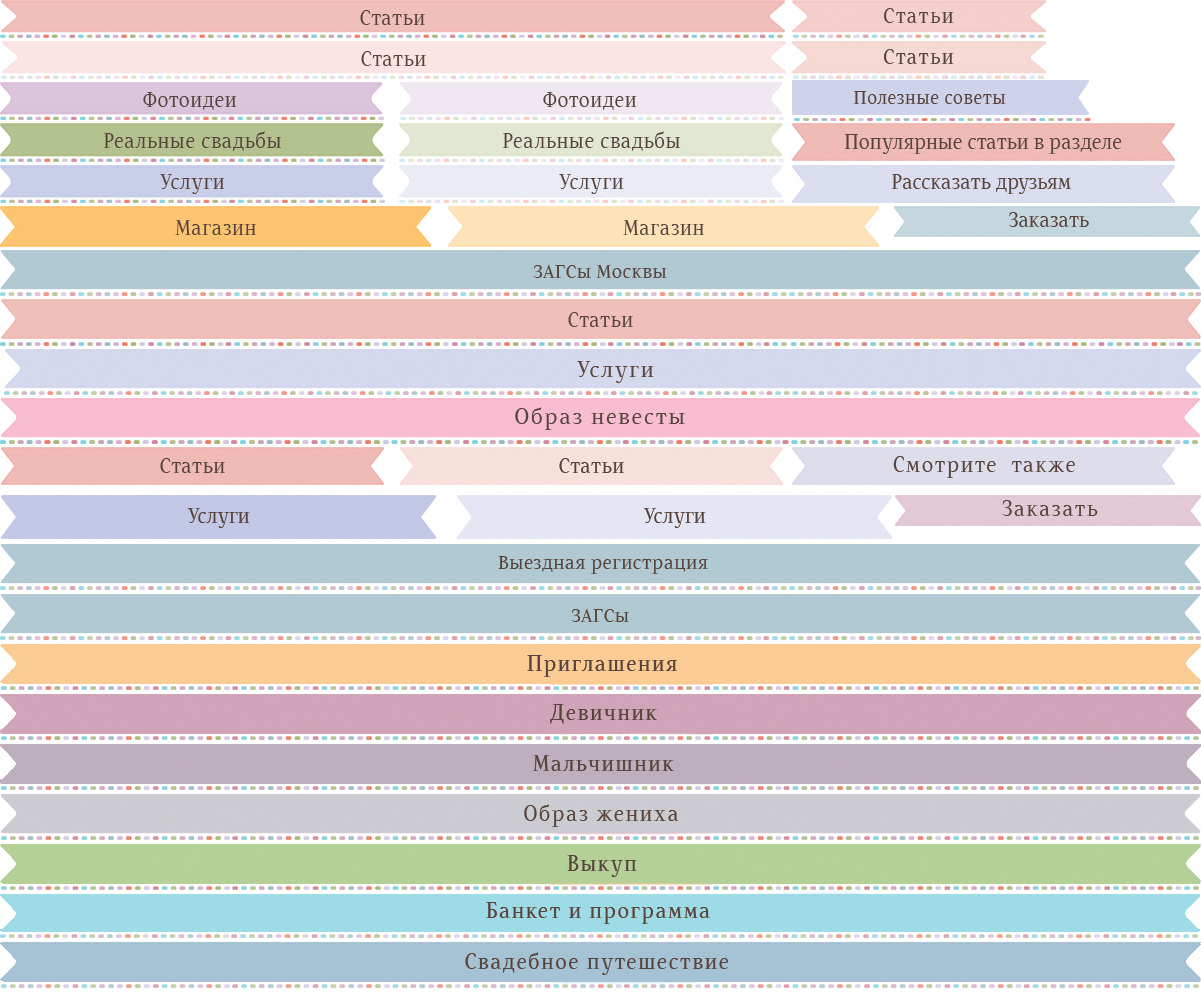
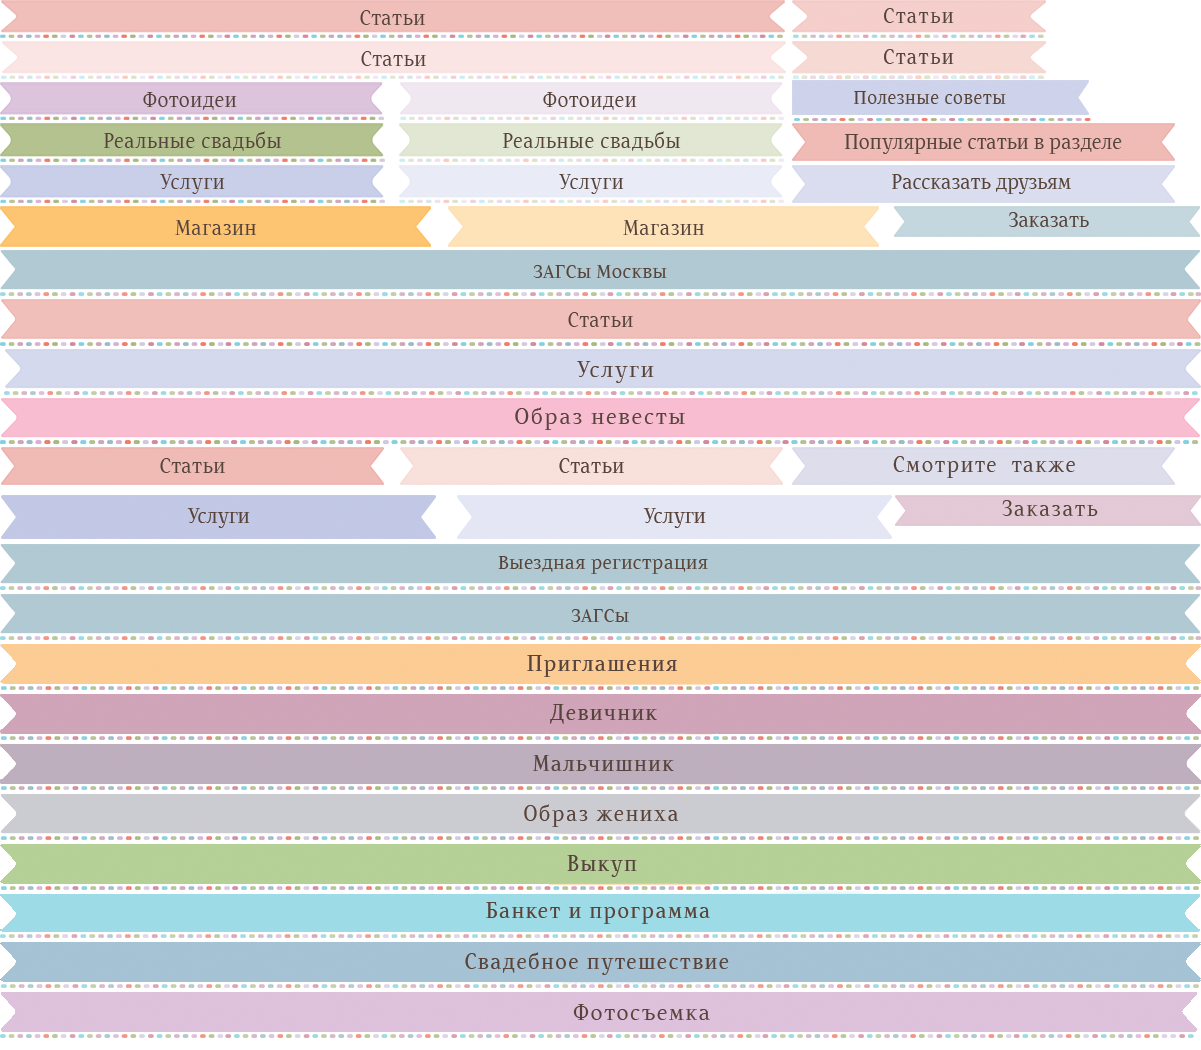
+ photographer-personal.html page (content)

diff --git a/photographer-personal.html b/photographer-personal.html
@@ -95,7 +95,10 @@
         </header>
         <main id="main">
             <div class="container">
-                <strong class="title title-services-wide"><span>Услуги</span></strong>
+                <strong class="title title-photo-wide"><span>Фотосъемка</span></strong>
+                <div class="align-center">
+                    <a class="button button-tour" href="#"><i></i>Вернуться к поиску</a>
+                </div>
                 <div class="content">
                     <div class="content-holder">
                         <article class="page-content">
@@ -126,7 +129,91 @@
                                 </div>
                             </div>
                             <div class="center-column">
-                                <h1>Илья Петров</h1>
+                                <div class="title-holder violet">
+                                    <h1>Илья Петров</h1>
+                                    <div class="rating-row">
+                                        <span class="label">Фотограф</span>
+                                        <span class="star-rating">
+                                            <img src="images/star-rating.png" alt="" width="107" height="12"/>
+                                        </span>
+                                    </div>
+                                </div>
+                                <div class="photographer-info">
+                                    <div class="entry-content">
+                                        <div class="photo">
+                                            <img src="images/img137.jpg" alt="" width="177" height="182"/>
+                                            <a class="add-to-favourite" title="Добавить в избранное" href="#">Добавить в избранное</a>
+                                        </div>
+                                        <div class="entry-text">
+                                            <p>Во всех отелях и аэропортах есть магазины duty free. Наилучшими покупками
+                                                будут кубинские сигары, ром, ликеры, изделия кубинского народного искусства,
+                                                поделки и ювелирные изделия из черного
+                                                коралла, панциря черепахи и раковин, а
+                                                также вышитые и плетенные изделия. Изделия кубинского</p>
+                                            <div class="align-right">
+                                                <a class="read-more" href="#">Читать подробнее</a>
+                                            </div>
+                                        </div>
+                                    </div>
+                                    <div class="price-block">
+                                        <strong class="caption">Цена</strong>
+                                        <div class="entry">
+                                            <p>Фотосъемка свадьбы <span class="price">35 000 руб.</span></p>
+                                            <p>1 час <span class="price">3 500 руб.</span></p>
+                                        </div>
+                                    </div>
+                                </div>
+                                <div class="tabs-content">
+                                    <div class="tabs-menu">
+                                        <a href="#photo" class="active">Фото (53)</a>
+                                        <a href="#video">Видео (0)</a>
+                                        <a href="#price">Цены</a>
+                                        <a href="#comments">Отзывы (3)</a>
+                                    </div>
+                                    <div class="tab-content" id="photo">
+                                        <div class="imgs-row">
+                                            <div class="img-holder">
+                                                <img src="images/img138.jpg" alt="" width="289" height="213"/>
+                                                <a class="add-to-favourite" title="Добавить в избранное" href="#">&nbsp;</a>
+                                            </div>
+                                            <div class="img-holder">
+                                                <img src="images/img139.jpg" alt="" width="290" height="213"/>
+                                                <a class="add-to-favourite" title="Добавить в избранное" href="#">&nbsp;</a>
+                                            </div>
+                                        </div>
+                                        <div class="imgs-row">
+                                            <div class="img-holder">
+                                                <img src="images/img140.jpg" alt="" width="585" height="308"/>
+                                                <a class="add-to-favourite" title="Добавить в избранное" href="#">&nbsp;</a>
+                                            </div>
+                                        </div>
+                                        <div class="imgs-row">
+                                            <div class="img-holder">
+                                                <img src="images/img141.jpg" alt="" width="289" height="436"/>
+                                                <a class="add-to-favourite" title="Добавить в избранное" href="#">&nbsp;</a>
+                                            </div>
+                                            <div class="img-holder">
+                                                <img src="images/img142.jpg" alt="" width="290" height="436"/>
+                                                <a class="add-to-favourite" title="Добавить в избранное" href="#">&nbsp;</a>
+                                            </div>
+                                        </div>
+                                        <div class="imgs-row">
+                                            <div class="img-holder">
+                                                <img src="images/img143.jpg" alt="" width="585" height="351"/>
+                                                <a class="add-to-favourite" title="Добавить в избранное" href="#">&nbsp;</a>
+                                            </div>
+                                        </div>
+                                    </div>
+                                    <div class="tab-content" id="video">
+                                        Видео
+                                    </div>
+                                    <div class="tab-content" id="price">
+                                        Цены
+                                    </div>
+                                    <div class="tab-content" id="comments">
+                                        Отзывы
+                                    </div>
+                                </div>
                             </div>
                         </article>
                         <aside class="aside">

diff --git a/css/style.css b/css/style.css
@@ -878,6 +878,15 @@ fieldset {
     height: 46px;
     background-position: 0 -894px;
 }
+
+.title.title-photo-wide {
+    margin-bottom: 20px;
+}
+.title.title-photo-wide span {
+    width: 1201px;
+    height: 46px;
+    background-position: 0 -992px;
+}
 .text-title {
     display: block;
     margin: 0;
@@ -2737,14 +2746,20 @@ img.smile {
 .page-content .btn-gift:hover {
     text-decoration: underline;
 }
-.page-content h1 {
-    padding: 9px 0 24px;
+.page-content .title-holder {
+    padding: 9px 0 13px;
     margin: 0 0 17px;
     width: 582px;
-    font: 36px/22px "artemius_light_ttregular", Georgia, serif;
     position: relative;
 }
-.page-content h1:after {
+.page-content h1 {
+    margin: 0 0 11px;
+    font: 36px/22px "artemius_light_ttregular", Georgia, serif;
+}
+.page-content .title-holder.violet h1 {
+    color: #91659b;
+}
+.page-content .title-holder:after {
     content: '';
     position: absolute;
     left: 0;
@@ -2752,6 +2767,16 @@ img.smile {
     bottom: 0;
     height: 4px;
     background: url(../images/bg-colorful-dots.png) repeat-x;
+}
+.page-content .title-holder .rating-row > span {
+    display: inline-block;
+    vertical-align: middle;
+}
+.page-content .title-holder .rating-row .label {
+    margin: 0 8px 0 0;
+}
+.page-content .title-holder .rating-row img {
+    vertical-align: middle;
 }
 .page-content .img {
     padding: 4px;
@@ -2852,6 +2877,131 @@ img.smile {
 }
 .block-menu ul a:hover {
     color: #cb83a0;
+}
+/* photographer section */
+.photographer-info {
+    width: 585px;
+    margin: 0 0 56px;
+}
+.photographer-info .entry-content {
+    overflow: hidden;
+    padding: 0 0 30px;
+}
+
+.photographer-info .entry-content .photo {
+    float: left;
+    margin: 6px 28px 0 0;
+}
+.photographer-info .entry-content .photo img {
+    display: block;
+    margin: 0 0 2px;
+}
+.photographer-info .entry-content .entry-text {
+    text-align: justify;
+    line-height: 25px;
+}
+.photographer-info .entry-content .entry-text p {
+    margin: 0;
+}
+.photographer-info .align-right {
+    padding: 0;
+}
+.photographer-info .read-more {
+    font-size: 14px;
+    color: #bb4373;
+}
+.photographer-info .read-more:hover {
+    text-decoration: underline !important;
+}
+.add-to-favourite {
+    font-size: 10px;
+    color: #bc4474;
+    text-decoration: none;
+    position: relative;
+    padding: 0 0 0 20px;
+}
+.add-to-favourite:after {
+    content: '';
+    position: absolute;
+    left: 0;
+    top: 0;
+    width: 15px;
+    height: 13px;
+    background: url(../images/sprite.png) no-repeat -296px -88px;
+}
+.add-to-favourite:hover:after {
+    background-position: -312px -88px;
+}
+.add-to-favourite:hover {
+    text-decoration: underline;
+}
+/* tabs content */
+.page-content .tabs-content {
+    width: 585px;
+}
+.tabs-menu {
+    margin: 0 0 20px;
+    padding: 0;
+    list-style: none;
+    font-size: 14px;
+    overflow: hidden;
+}
+.tabs-menu a {
+    float: left;
+    width: 143px;
+    margin: 0 0 0 4px;
+    padding: 3px 0 4px;
+    background: #e2e2e1;
+    text-align: center;
+    border-radius: 3px;
+    text-decoration: none;
+    color: #56433b;
+}
+.tabs-menu a.active {
+    background: #bb4374;
+    color: #fff;
+}
+.tabs-menu a:hover {
+    text-decoration: underline;
+}
+.tabs-menu a:first-child {
+    margin: 0;
+}
+.imgs-row {
+    margin: 0 0 12px;
+}
+.imgs-row .img-holder {
+    display: inline-block;
+    margin: 0;
+    position: relative;
+}
+.imgs-row .img-holder img {
+    vertical-align: top;
+}
+.imgs-row .img-holder .add-to-favourite {
+    position: absolute;
+    right: 14px;
+    top: 11px;
+    width: 21px;
+    height: 17px;
+    padding: 0;
+    font-size: 0;
+    line-height: 0;
+    display: none;
+}
+.imgs-row .img-holder:hover .add-to-favourite {
+    display: block;
+}
+.imgs-row .img-holder .add-to-favourite:hover {
+    text-decoration: underline;
+}
+.imgs-row .img-holder .add-to-favourite:after {
+    width: 21px;
+    height: 17px;
+    background-position: -328px -88px;
+}
+.imgs-row .img-holder .add-to-favourite:hover:after {
+    background-position: -350px -88px;
 }
 /* service section */
 .services-section {

diff --git a/guests-service.html b/guests-service.html
@@ -126,7 +126,9 @@
                                 </div>
                             </div>
                             <div class="center-column">
-                                <h1>Чем развлечь и удивить гостей?</h1>
+                                <div class="title-holder">
+                                    <h1>Чем развлечь и удивить гостей?</h1>
+                                </div>
                                 <div class="services-section">
                                     <div class="service-box">
                                         <div class="photo">

diff --git a/services.html b/services.html
@@ -113,7 +113,9 @@
                             </div>
 
                             <div class="services-section">
-                                <h1>New</h1>
+                                <div class="title-holder">
+                                    <h1>New</h1>
+                                </div>
                                 <div class="service-box">
                                     <div class="photo">
                                         <a href="#"><img src="images/img131.jpg" alt="" width="262" height="187"/></a>

diff --git a/birds-service.html b/birds-service.html
@@ -113,7 +113,9 @@
                             </div>
 
                             <div class="center-column">
-                                <h1>Запуск голубей</h1>
+                                <div class="title-holder">
+                                    <h1>Запуск голубей</h1>
+                                </div>
                                 <div class="img">
                                     <img src="images/img70.jpg" alt="" width="568" height="338"/>
                                 </div>

diff --git a/js/jquery.main.js b/js/jquery.main.js
@@ -72,6 +72,10 @@ function initTabs() {
         checkHash: true
     });
 
+    jQuery('.tabs-menu').contentTabs({
+        tabLinks: '> a'
+    });
+
     /* comments tabs */
     jQuery('ul.tabs').delegate('li:not(.current)', 'click', function() {
         jQuery(this).addClass('current').siblings().removeClass('current')
